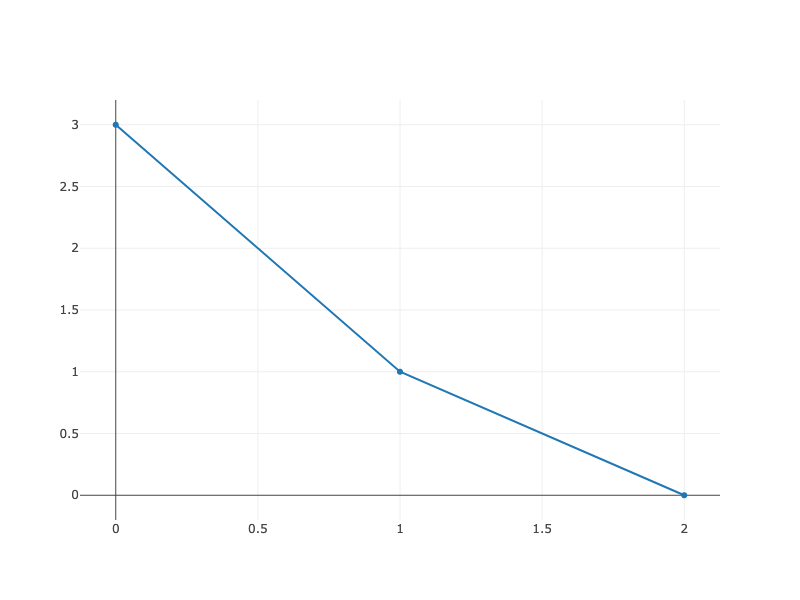
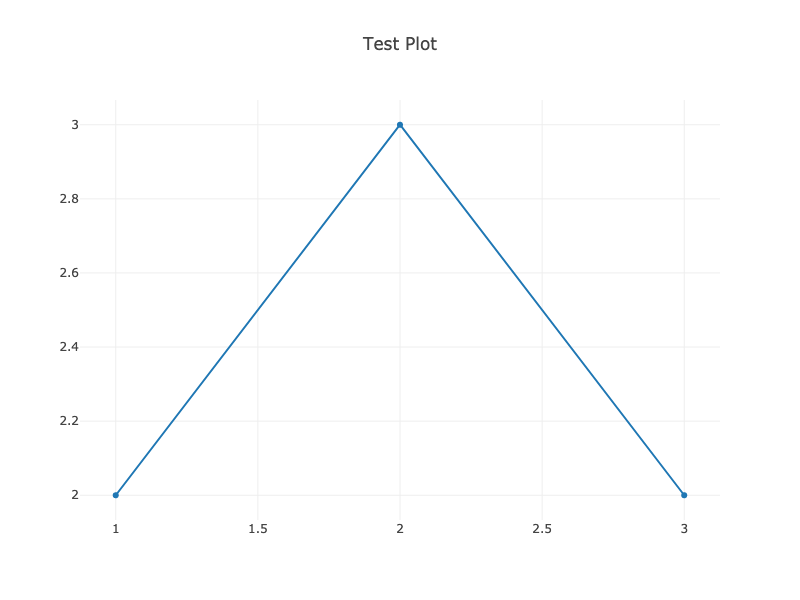
more examples and TeX

diff --git a/src/plot.rs b/src/plot.rs
@@ -1,0 +1,158 @@
+use plotly::{ImageFormat, Plot, Scatter};
+use rand::Rng;
+use serde::ser::Serialize;
+
+use itertools_num::linspace;
+use plotly::color::{NamedColor, Rgb, Rgba};
+use plotly::common::{
+    ColorScale, ColorScalePalette, DashType, Fill, Font, Line, LineShape, Marker, Mode, Title,
+};
+use plotly::layout::{Axis, BarMode, Layout, Legend, TicksDirection};
+use rand_distr::{Distribution, Normal, Uniform};
+
+pub fn transparent_plot<T: Serialize + Clone + 'static>(x: Vec<T>, y: Vec<T>) {
+    let mut plot = Plot::new();
+    let trace = Scatter::new(x, y);
+    plot.add_trace(trace);
+
+    let layout = plotly::Layout::new()
+        .title(plotly::common::Title::new("Test Plot"))
+        .width(800)
+        .height(600)
+        .plot_background_color("rgba(0,0,0,0)")
+        .paper_background_color("rgba(0,0,0,0)");
+    plot.set_layout(layout);
+    plot.write_image("out.png", ImageFormat::PNG, 800, 600, 1.0);
+}
+
+pub fn test_plot(show: bool) {
+    let trace1 = Scatter::new(vec![52698, 43117], vec![53, 31])
+        .mode(Mode::Markers)
+        .name("North America")
+        .text_array(vec!["United States", "Canada"])
+        .marker(
+            Marker::new()
+                .color(Rgb::new(164, 194, 244))
+                .size(12)
+                .line(Line::new().color(NamedColor::White).width(0.5)),
+        );
+    let trace2 = Scatter::new(
+        vec![
+            39317, 37236, 35650, 30066, 29570, 27159, 23557, 21046, 18007,
+        ],
+        vec![33, 20, 13, 19, 27, 19, 49, 44, 38],
+    )
+    .mode(Mode::Markers)
+    .name("Europe")
+    .text_array(vec![
+        "Germany",
+        "Britain",
+        "France",
+        "Spain",
+        "Italy",
+        "Czech Rep.",
+        "Greece",
+        "Poland",
+    ])
+    .marker(Marker::new().color(Rgb::new(255, 217, 102)).size(12));
+    let trace3 = Scatter::new(
+        vec![42952, 37037, 33106, 17478, 9813, 5253, 4692, 3899],
+        vec![23, 42, 54, 89, 14, 99, 93, 70],
+    )
+    .mode(Mode::Markers)
+    .name("Asia/Pacific")
+    .text_array(vec![
+        "Australia",
+        "Japan",
+        "South Korea",
+        "Malaysia",
+        "China",
+        "Indonesia",
+        "Philippines",
+        "India",
+    ])
+    .marker(Marker::new().color(Rgb::new(234, 153, 153)).size(12));
+    let trace4 = Scatter::new(
+        vec![19097, 18601, 15595, 13546, 12026, 7434, 5419],
+        vec![43, 47, 56, 80, 86, 93, 80],
+    )
+    .mode(Mode::Markers)
+    .name("Latin America")
+    .text_array(vec![
+        "Chile",
+        "Argentina",
+        "Mexico",
+        "Venezuela",
+        "Venezuela",
+        "El Salvador",
+        "Bolivia",
+    ])
+    .marker(Marker::new().color(Rgb::new(142, 124, 195)).size(12));
+
+    let x_axis = Axis::new()
+        .title(Title::new("GDP per Capita"))
+        .show_grid(false)
+        .zero_line(false)
+        .color(NamedColor::Red)
+        .line_color(NamedColor::Blue);
+    let y_axis = Axis::new().title(Title::new("Percent")).show_line(false);
+
+    let layout = Layout::new()
+        .title(Title::new("r$\\text{Quarter } Q=2023 \\text{ Growth}$"))
+        .x_axis(x_axis)
+        .y_axis(y_axis);
+    let mut plot = Plot::new();
+    plot.add_trace(trace1);
+    plot.add_trace(trace2);
+    plot.add_trace(trace3);
+    plot.add_trace(trace4);
+    plot.set_layout(layout);
+    if show {
+        plot.show();
+    }
+    println!(
+        "{}",
+        plot.to_inline_html(Some("colored_and_styled_scatter_plot"))
+    );
+
+}
+
+pub fn line_and_scatter_plots(show: bool) {
+    let n: usize = 100;
+    let mut rng = rand::thread_rng();
+    let random_x: Vec<f64> = linspace(0., 1., n).collect();
+    let random_y0: Vec<f64> = Normal::new(5., 1.)
+        .unwrap()
+        .sample_iter(rng.clone())
+        .take(n)
+        .collect();
+    let random_y1: Vec<f64> = Normal::new(0., 1.)
+        .unwrap()
+        .sample_iter(rng.clone())
+        .take(n)
+        .collect();
+    let random_y2: Vec<f64> = Normal::new(-5., 1.)
+        .unwrap()
+        .sample_iter(rng.clone())
+        .take(n)
+        .collect();
+
+    let trace1 = Scatter::new(random_x.clone(), random_y0)
+        .mode(Mode::Markers)
+        .name("markers");
+    let trace2 = Scatter::new(random_x.clone(), random_y1)
+        .mode(Mode::LinesMarkers)
+        .name("linex+markers");
+    let trace3 = Scatter::new(random_x, random_y2)
+        .mode(Mode::Lines)
+        .name("lines");
+
+    let mut plot = Plot::new();
+    plot.add_trace(trace1);
+    plot.add_trace(trace2);
+    plot.add_trace(trace3);
+    if show {
+        plot.show();
+    }
+    println!("{}", plot.to_inline_html(Some("line_and_scatter_plots")));
+}

diff --git a/src/main.rs b/src/main.rs
@@ -1,10 +1,10 @@
-use plotly::{Plot, Scatter,ImageFormat};
+mod plot;
 
 fn main() {
-let mut plot = Plot::new();
-let trace = Scatter::new(vec![0, 1, 2], vec![3, 1, 0]);
-plot.add_trace(trace);
+    let x = vec![1.0, 2.0, 3.0];
+    let y = vec![2.0, 3.0, 2.0];
+    plot::transparent_plot(x, y);
 
-plot.write_image("out.png", ImageFormat::PNG, 800, 600, 1.0);
+    plot::test_plot(true);
+    plot::line_and_scatter_plots(false);
 }
-
